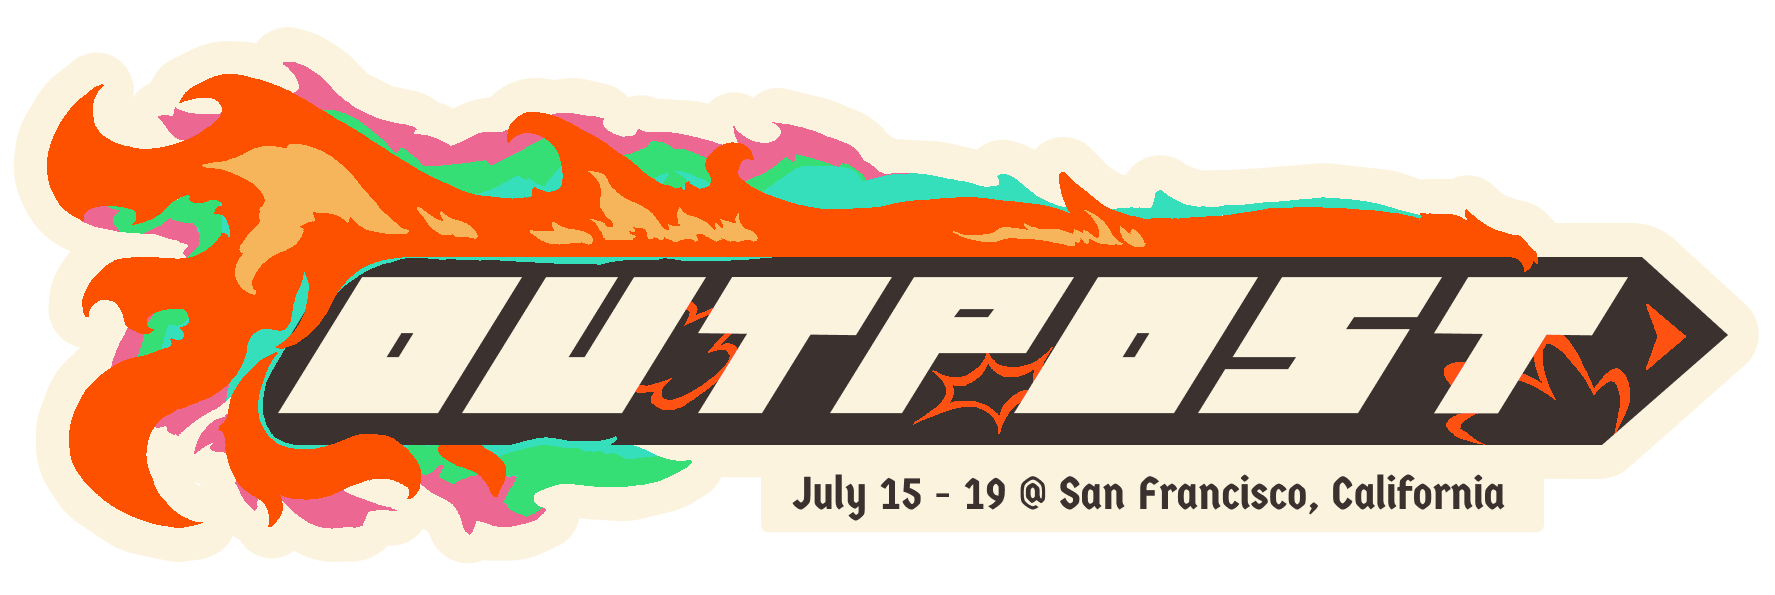
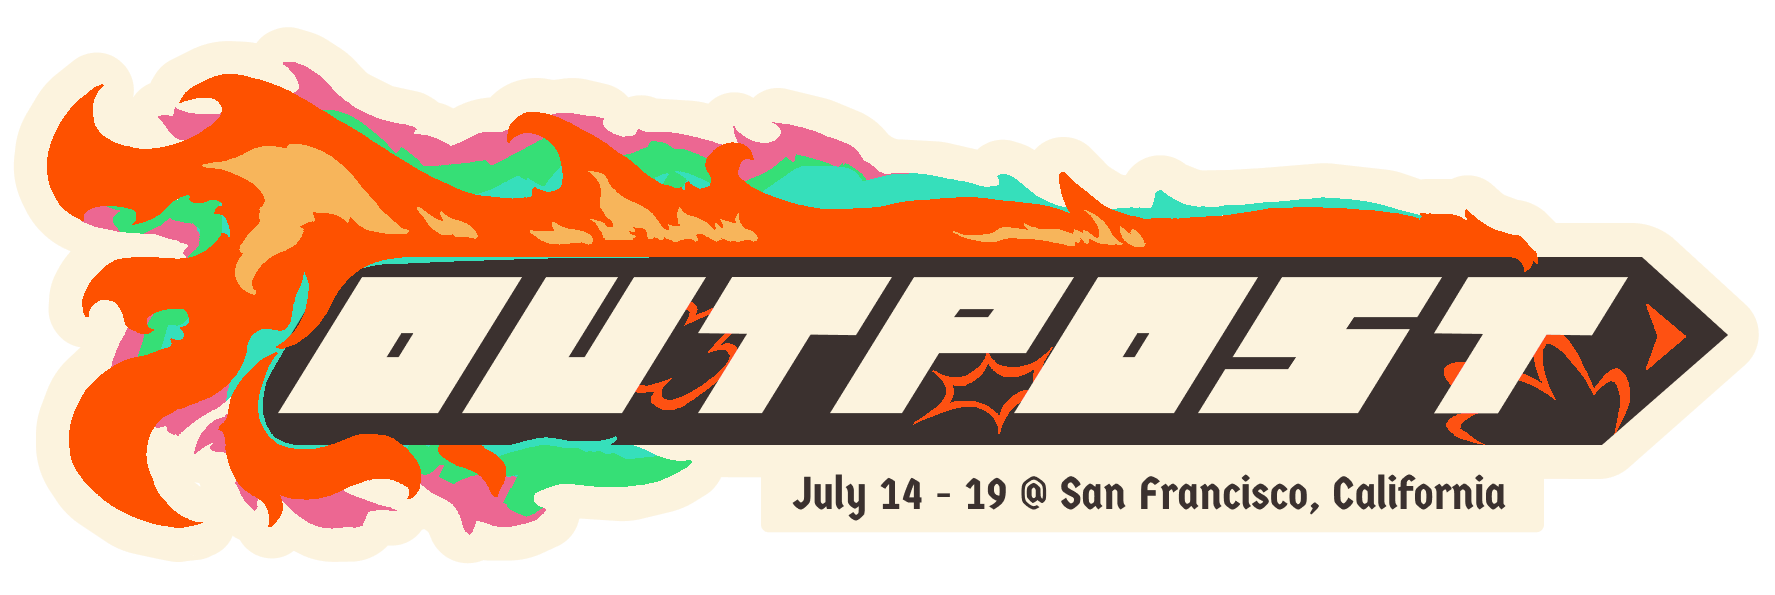
updates

diff --git a/website/src/styles/global.css b/website/src/styles/global.css
@@ -17,6 +17,7 @@ body {
     font-family: "Hind Madurai", sans-serif;
     background-color: #FCF3DE;
     color: #3B312F;
+    text-wrap: pretty;
 }
 
 .prose hr {